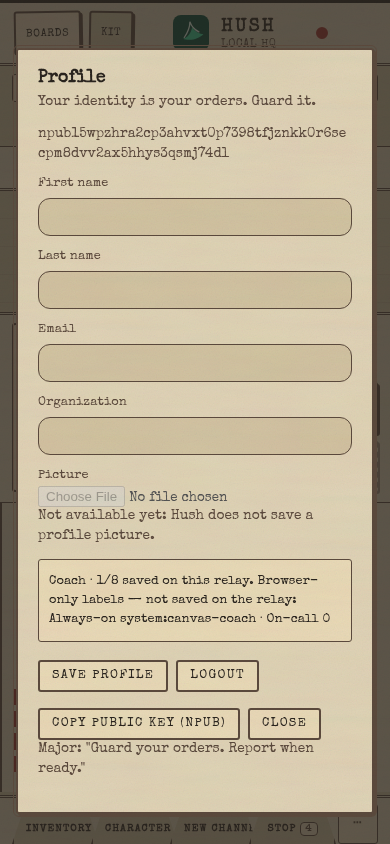
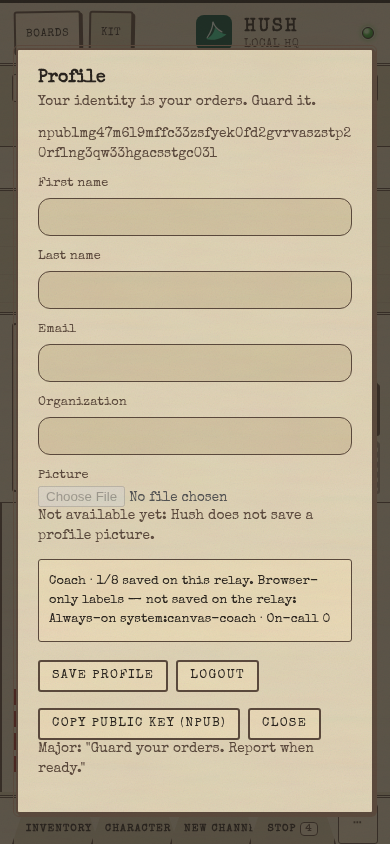
pre-walk r4: fade ignores padding-only overflow; badge fits 641-1440; phone lamp; SHA once; drop (pass)
- syncDrawerOverflow tests the last shown row's bottom against clientHeight,
  so bottom padding, the cue and its gap never set is-overflowing (Ops FAIL-A).
  check_restart_ui sweeps 1440 h 900-908 and 375 h 778-792 through the band.
- Header: hide the HQ stamp up to 800px so the badge shows whole at every
  width 641-1440; CI checks each width before and after login (Ops FAIL-B).
- <=480px badge is a green/amber indicator lamp with rim and glow, seated at
  the header's right padding; role=img, title and aria-label kept.
- Drawer stamp prints the build SHA once.
- Pass labels drop the '(pass)' tool name.
- Retake docs character screenshots (phone shows the lamp).

diff --git a/hush-c/demo/index.html b/hush-c/demo/index.html
@@ -1818,7 +1818,7 @@ button.fo-person { min-height: var(--btn-h-sm); }
 #stats .stats-row { display: block; margin-left: -1.2em; }
 #stats .stat::before { content: "·"; content: "·" / ""; display: inline-block; width: 1.2em; text-align: center; }
 /* Pre-walk r3 (Ops F2): the version item (a real stamp such as
-   "v0.0.1-697-g4c1f2594 4c1f2594") is one box no wider than the row: it
+   "v0.0.1-697-g4c1f2594") is one box no wider than the row: it
    moves to its own line whole, and when it is still too wide it wraps
    inside itself (continuation lines indented past the clipped "·" gutter)
    instead of being cut by the clip wrapper's right edge. */
@@ -1828,23 +1828,37 @@ button.fo-person { min-height: var(--btn-h-sm); }
 @media (max-width: 480px) {
   .act-noun { position: absolute; width: 1px; height: 1px; overflow: hidden; clip-path: inset(50%); white-space: nowrap; }
 }
-/* Pre-walk r3 (Ops F1): at <= 480px the header badge is a status dot
-   (filled when ok, a ring when bad, since field-office accent and warn
-   share one red); the state text stays in its title and aria-label. */
+/* Pre-walk r3 (Ops F1) / r4 (Ops FAIL-B): at <= 480px the header badge
+   is a field-office indicator lamp: green while the relay is listening,
+   amber otherwise (connecting or unreachable), with a dark rim, a small
+   highlight and a soft glow. It sits at the header's right padding (no
+   48px phone margin). The state text stays in its title and aria-label. */
 @media (max-width: 480px) {
   html[data-theme] header #badge {
-    width: 12px; min-width: 12px; max-width: 12px; height: 12px; padding: 0;
-    font-size: 0; line-height: 0; overflow: hidden; border-radius: 50%;
-    border: 2px solid var(--muted); background: transparent; transform: none; box-shadow: none;
+    width: 12px; min-width: 12px; max-width: 12px; height: 12px; padding: 0; margin: 0 2px 0 0;
+    flex: none; align-self: center; font-size: 0; line-height: 0; overflow: hidden;
+    border-radius: 50%; border: 1px solid #2a241e; transform: none;
+    background: radial-gradient(circle at 35% 30%, #ffe2a3 0 18%, #e0a030 45%, #a86a10 100%);
+    box-shadow: 0 0 0 1px rgb(255 255 255 / 0.35), 0 0 5px 1px rgb(224 160 48 / 0.55);
   }
-  html[data-theme] header #badge.ok { border-color: var(--accent); background: var(--accent); }
-  html[data-theme] header #badge.bad { border-color: var(--warn); background: transparent; }
+  html[data-theme] header #badge.ok {
+    background: radial-gradient(circle at 35% 30%, #c8f5b8 0 18%, #3fae3a 45%, #1f6e1c 100%);
+    box-shadow: 0 0 0 1px rgb(255 255 255 / 0.35), 0 0 5px 1px rgb(63 174 58 / 0.6);
+  }
+}
+/* Pre-walk r4 (Ops FAIL-B): up to 800px the header has no room for the
+   "HQ — Global Operations" stamp beside the brand and the whole badge
+   (at 641-776 the badge ran off the right edge), so the stamp goes, as it
+   already does at <= 640px; the badge keeps its full text. */
+@media (max-width: 800px) {
+  .fo-hq > span { display: none; }
 }
 /* r5 (Ops F2 fallback): only while the drawer content overflows (more
    channels than the demo fixture), a sticky bottom fade makes the cut edge
-   read as "scroll for more". syncDrawerOverflow() toggles the class and
-   leaves the cue height plus its flex row gap out of its test, so a
-   drawer that fits (even by 1px) shows no cue. bottom: -10px reaches past
+   read as "scroll for more". syncDrawerOverflow() toggles the class from
+   the last content row's bottom against the client box, so the cue, its
+   flex row gap and the bottom padding never count: a drawer whose rows
+   all show (even with 1px spare, or with only padding cut) shows no cue. bottom: -10px reaches past
    the 10px nav padding to the inner border. Pre-walk: the fade is 12px
    tall (was 24px pulled up 12px), so it stays in the bottom padding band
    and the first stats line above it stays crisp. */
@@ -2296,7 +2310,7 @@ button.fo-person { min-height: var(--btn-h-sm); }
         </div>
       </div>
       <label class="passbox"><input id="agent-pass" type="checkbox" checked>
-        Checked to save its key in your password manager (pass).</label>
+        Checked to save its key in your password manager.</label>
       <details class="howto" id="agent-pass-howto"><summary>How to find it later</summary>
         <p>In a terminal, run <code>pass show hush/agents/&lt;slug&gt;/nsec</code>.</p></details>
       <p class="warn" id="agent-err"></p>
@@ -2905,7 +2919,7 @@ button.fo-person { min-height: var(--btn-h-sm); }
           : "";
         const passLabel = passOff
           ? "Save to password manager"
-          : "Checked to save it in your password manager (pass).";
+          : "Checked to save it in your password manager.";
         const passHowto = passOff
           ? ""
           : "<details class=\"howto\"><summary>How to find it later</summary>" +
@@ -3774,17 +3788,21 @@ button.fo-person { min-height: var(--btn-h-sm); }
       $("nav-toggle").setAttribute("aria-expanded", String(open));
     });
     /* r5 (Ops F2 fallback): mark the drawer while its content overflows so
-       the CSS bottom fade shows only then. While the class is on, the cue
-       adds its own height plus one flex row gap to scrollHeight; both are
-       left out of the test so the class does not hold itself on (pre-walk
-       r3: the gap was missing, so a drawer with up to 12px free kept it). */
+       the CSS bottom fade shows only then. Pre-walk r4 (Ops FAIL-A): the
+       test is the bottom of the last shown content row against the client
+       box, not scrollHeight, so bottom padding (and the cue with its flex
+       row gap, which are not element children) never counts: a drawer
+       whose rows all show gets no class even when only its padding
+       overflows (r3 set it there, e.g. at the default 1440x900). */
     function syncDrawerOverflow() {
       const d = $("fo-drawer");
-      const cs = getComputedStyle(d);
-      const cue = d.classList.contains("is-overflowing")
-        ? (parseFloat(getComputedStyle(d, "::after").height) || 0) + (parseFloat(cs.rowGap) || 0)
-        : 0;
-      d.classList.toggle("is-overflowing", d.scrollHeight - cue > d.clientHeight + 1);
+      const top = d.getBoundingClientRect().top + d.clientTop - d.scrollTop;
+      let last = 0;
+      for (const c of d.children) {
+        if (!c.getClientRects().length) continue;
+        last = Math.max(last, c.getBoundingClientRect().bottom - top);
+      }
+      d.classList.toggle("is-overflowing", last > d.clientHeight + 1);
     }
     if (window.ResizeObserver) {
       const drawerRO = new ResizeObserver(syncDrawerOverflow);
@@ -6790,7 +6808,10 @@ button.fo-person { min-height: var(--btn-h-sm); }
         status.events + " stored",
         projN + " project" + (projN === 1 ? "" : "s"),
         status.clients + " sockets"];
-      if (ver) statItems.push((ver.charAt(0) === "v" ? "" : "v") + ver + (status.build ? " " + status.build : ""));
+      // Pre-walk r4: the build SHA is printed once; a version that already
+      // carries it ("v0.0.1-697-g4c1f2594", CI's "7fc2acd") drops the word.
+      if (ver) statItems.push((ver.charAt(0) === "v" ? "" : "v") + ver +
+        (status.build && !ver.includes(String(status.build)) ? " " + status.build : ""));
       const statRow = document.createElement("span"); statRow.className = "stats-row";
       statRow.replaceChildren(...statItems.flatMap((t, i) => {
         const item = document.createElement("span"); item.className = "stat"; item.textContent = t;

diff --git a/UI_SPEC.md b/UI_SPEC.md
@@ -64,9 +64,14 @@ raise humans + robots that share channels."
   (pre-walk). r3 (Ops F1): the badge (`role="img"`) always carries its
   full state in both `title` and `aria-label` (visible text plus the
   tooltip detail, e.g. "listening — Relay listening on port N"), and
-  every state change rewrites both. At ≤480px it is a 12px dot (filled
-  when ok, a ring when not); at 481-640px it keeps the 95px cap and ends
-  in an ellipsis. The header shows the vibe name only while `logged_in` is true;
+  every state change rewrites both. At ≤480px it is a 12px indicator
+  lamp seated at the header's right padding (r4, Ops FAIL-B: green while
+  listening, amber otherwise, with a dark rim, highlight and soft glow;
+  no text); at 481-640px it keeps the 95px cap and ends in an ellipsis.
+  r4 (Ops FAIL-B): at 641-800px the "HQ — Global Operations" stamp is
+  hidden (as at ≤640px) so the badge shows whole; `check_restart_ui.cjs`
+  checks every width 641-1440, before and after login, in field-office
+  and dark. The header shows the vibe name only while `logged_in` is true;
   otherwise it falls back to the neutral "local hive mind" (and an
   empty visibility badge), so a surviving vibe name never implies a
   live login after a restart.
@@ -76,7 +81,7 @@ Linear 4 steps with progress `1 / 4` … `4 / 4` and four dots.
 
 1. **Identity** — Create new (primary) or Import nsec. Help: “What’s an identity key?”
 2. **Backup** — Masked nsec, Reveal, Copy. Checkbox **checked**:
-   `Checked to save it in your password manager (pass).` followed by a
+   `Checked to save it in your password manager.` followed by a
    collapsed `<details class="howto">` "How to find it later" that holds
    "In a terminal, run `pass show hush/identity/nsec`."
    When `/api/session` reports `pass_available:false` (`pass` is not
@@ -134,7 +139,7 @@ the two deltas above). Backup: the no-pass reason is the one sentence
 "Hush can't save this key on this computer, so keep your copy somewhere
 safe." (the second "Copy it now" is gone; the top line keeps the first),
 and the disabled label is dimmed. With `pass` the label says "Checked to
-save it in your password manager (pass).", the `pass show
+save it in your password manager.", the `pass show
 hush/identity/nsec` command sits only inside the collapsed "How to find
 it later" details, and the clause reads "Uncheck the box only if you do
 not want your password manager to keep it." Key names are plain words
@@ -315,7 +320,7 @@ and a pencil to edit it again.
   hit at phone width). Pencil opens `#provider-drawer` (see §11). Configure is
   optional for Raise — the robot still stores only the provider id.
 - pass checkbox default-on, same plain words as the backup step (pre-walk
-  r3): `Checked to save its key in your password manager (pass).` The
+  r3): `Checked to save its key in your password manager.` The
   retrieve command sits behind a closed details line (`#agent-pass-howto`,
   "How to find it later"): `pass show hush/agents/<slug>/nsec`. r4 (Gauge
   B1): both show only on Raise (the create path saves the key) while
@@ -1299,8 +1304,9 @@ items separated by `·` that wrap (pre-walk: each item carries a leading
 starts on a dangling `·`; a status with no `version` drops the version
 item instead of showing `v? ?`) instead of a five-line stack. r4 claim
 trace (measured, field-office, 1440×900, Gauge/Ops `session.json`
-fixture): two lines with a status that has no version, four with a real
-build stamp (it wraps inside itself), and with that fixture's channels
+fixture): two lines with a status that has no version, three with a real
+build stamp (r4: the SHA is printed once, e.g. "v0.0.1-697-g4c1f2594",
+not "… 4c1f2594" again), and with that fixture's channels
 the drawer still overflows and scrolls, marked by the fade cue below
 (the earlier "three lines … needs no scroll" no longer held). At
 ≤480px the robot-editor actions show the verb only (CREATE or SAVE,
@@ -1313,12 +1319,15 @@ a sticky 12px bottom fade (to the drawer surface colour) that also gives
 12px of end room, so a cut last line reads as "scroll for more"
 (pre-walk: was 24px pulled up 12px, which washed out the first stats
 line at 1440). A
-drawer that fits gets no class and no fade: while the class is on, the
-overflow test leaves out the cue height plus the drawer's flex row gap
-(the cue is a flex item), so the class drops as soon as the content
-fits, even by 1px (r3, Gauge P2-1; `check_restart_ui.cjs` drives the
-drawer height across that edge). r3 (Ops F2): the last stat (the build
-stamp, e.g. "v0.0.1-697-g4c1f2594 4c1f2594") is an inline-block no wider
+drawer whose rows all show gets no class and no fade: the overflow test
+is the bottom of the last shown content row against the drawer's client
+box (r4, Ops FAIL-A), so the cue, its flex row gap and the bottom
+padding never count. The class drops as soon as every row fits, even by
+1px (r3, Gauge P2-1), and padding-only overflow (r3 set the class at
+1440 h 900-908 and 375 h 778-792 on Ops's fixture) shows none;
+`check_restart_ui.cjs` drives the drawer height across that edge and
+sweeps the window through that padding band. r3 (Ops F2): the last stat
+(the build stamp, e.g. "v0.0.1-697-g4c1f2594") is an inline-block no wider
 than the row that wraps inside itself, continuation lines indented past
 the clipped "·" gutter, so no glyph is cut at the clip edge; the UI check
 also measures a longer realistic stamp fixture.

diff --git a/IMPORT.md b/IMPORT.md
@@ -52,7 +52,7 @@ hush-pass save "agents/brain/nsec" "nsec1q9x8..."
 
 On the identity backup step, when `pass` is available, the checkbox is **checked by default**:
 
-> **Checked to save it in your password manager (pass).**
+> **Checked to save it in your password manager.**
 >
 > How to find it later (a closed details line under the box): `pass show hush/identity/nsec`
 
@@ -61,7 +61,7 @@ On the identity backup step, when `pass` is available, the checkbox is **checked
 - Without `pass`, the box is off, dimmed and disabled, and the step says "Hush can't save this key on this computer, so keep your copy somewhere safe."
 - Always offered on that step: **Copy value** so you can save the secret in 1Password, Bitwarden, a paper backup, or any other manager.
 
-When you raise a new robot with `pass` available, the robot editor shows "Checked to save its key in your password manager (pass)." with `pass show hush/agents/<slug>/nsec` behind the same "How to find it later" line. Editing a robot saves no key, so the box is hidden there; it is also hidden when `pass` is missing.
+When you raise a new robot with `pass` available, the robot editor shows "Checked to save its key in your password manager." with `pass show hush/agents/<slug>/nsec` behind the same "How to find it later" line. Editing a robot saves no key, so the box is hidden there; it is also hidden when `pass` is missing.
 
 Retrieve later:
 
@@ -115,7 +115,7 @@ Hush (MVP) is an in-memory relay. Events are lost on restart unless you add pers
 
 - When creating or importing an agent in a Hush-aware tool:
   - Provide the name.
-  - In the Hush UI, raising a new robot with `pass` available offers the default-checked box "Checked to save its key in your password manager (pass)." with a "How to find it later" details line holding `pass show hush/agents/<slug>/nsec`. Editing a robot, or a relay without `pass`, shows no box (nothing is saved there).
+  - In the Hush UI, raising a new robot with `pass` available offers the default-checked box "Checked to save its key in your password manager." with a "How to find it later" details line holding `pass show hush/agents/<slug>/nsec`. Editing a robot, or a relay without `pass`, shows no box (nothing is saved there).
   - If previously saved with `pass`, the tool can retrieve it via `scripts/hush-pass get` or `pass show hush/agents/<name>/nsec`.
 - Point the agent at your Hush relay URL.
 - Start the agent. It should be able to sign events and participate in channels.

diff --git a/docs/pass-integration.md b/docs/pass-integration.md
@@ -32,7 +32,7 @@ Whenever Hush generates or first-shows a secret:
 
 1. A modal shows the value (masked by default) with **Copy**.
 2. When `pass` is available, a checkbox is **checked** by default:
-   `Checked to save it in your password manager (pass).`
+   `Checked to save it in your password manager.`
    The retrieve command sits behind a closed "How to find it later"
    details line: `pass show hush/identity/nsec`. Without `pass` the box
    is off, dimmed and disabled, and the step says Hush can't save the
@@ -43,7 +43,7 @@ Whenever Hush generates or first-shows a secret:
 
 Robot editor (no modal; the robot's key is not shown): raising a new
 robot with `pass` available shows `Checked to save its key in your
-password manager (pass).` with `pass show hush/agents/<slug>/nsec`
+password manager.` with `pass show hush/agents/<slug>/nsec`
 behind the same "How to find it later" line; left checked, the create
 request saves the key (a failed save is not reported to the UI yet).
 Edit paths save no key and show no box, and neither does a relay
